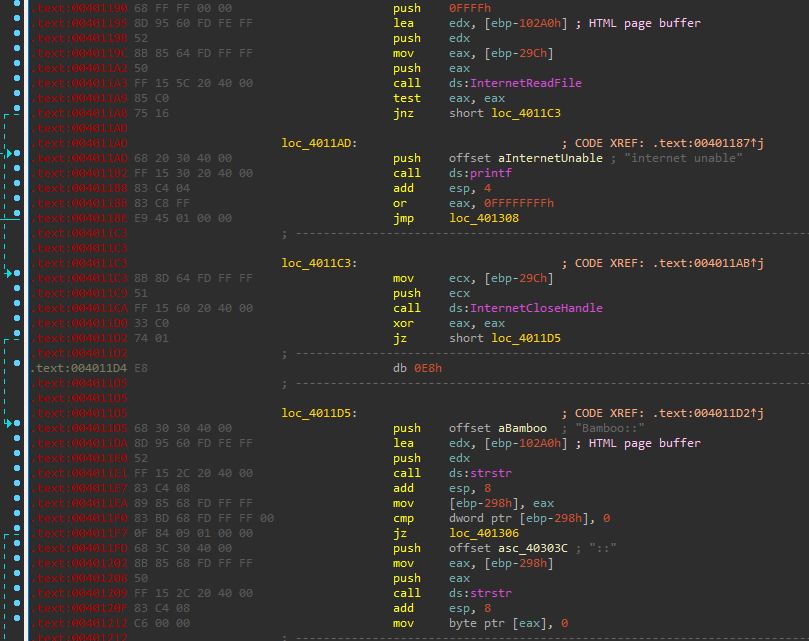
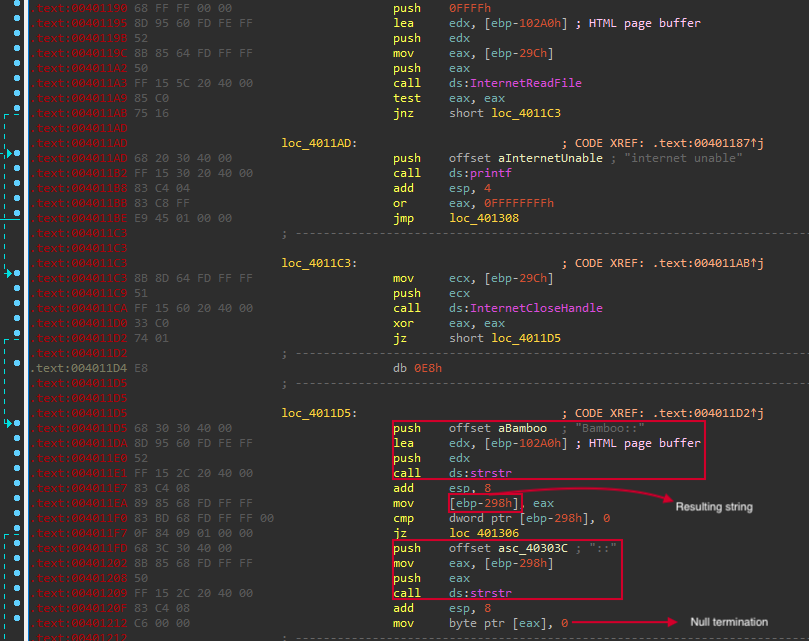
Lab15 exercises (to be completed...)

diff --git a/Labs/Lab_15.md b/Labs/Lab_15.md
@@ -162,34 +162,35 @@ The _User-Agent_ is set up by the malware when it calls to the _InternetOpenA_ _
 
 As we can see, the _User-Agent_ is introduced as argument by means of the variable _EBP-100h_, so if we look for this variable, we will find where the malware set up the _User-Agent_.
 
-If we go back in the sample, we see how at the beginning, the malware set up the _User-Agent_ by means of _gethostname_.
+If we go back in the sample, we see how at the beginning, the malware set up the variable _EBP-100h_ by means of _gethostname_.
 
 ![_IDA Pro_ _gethostname_ set _User-Agent_ variable](../Pictures/Lab_15/lab_15-02_2_ida_pro_2.png)
 
+After that, this variable is modified by incrementing each letter and number in one value, for example _0x41_ (A), will be _0x42_ (B), but if the number is equal to letters "Z", "z" or "9", it will be converted in "A", "a" and "0", respectively.
+
+![_IDA Pro_ _User-Agent_ modification](../Pictures/Lab_15/lab_15-02_2_ida_pro_3.png)
+
 **3. What does the program look for in the page it initially requests?**
 
-Once the malware has performed the _HTTP_ request, it will read the file by means of _InternetReadFile_ and then it will look for the string "Bamboo::" and then it will search for the first occurrence of "::".
+Once the malware has performed the _HTTP_ request, it will read the file by means of _InternetReadFile_ and then it will look for the string "Bamboo::". After that, it will search again but this time for the first occurrence of "::" and replacing value of the search by a null value _0x0_, indicating the end of the string. This will result in a string between the strings "Bamboo::" and ":"
 
 ![_IDA Pro_ look for "Bamboo::"](../Pictures/Lab_15/lab_15-02_3_ida_pro_1.png)
 
 **4. What does the program do with the information it extracts from the page?**
 
-After extracting the interesting information, the malware will call the function _sub_40130F_, which will get the string "Accounts.Summary.xls.exe".
+After extracting the interesting information (will call it _extracted_info_), the malware will call the function _sub_40130F_, which will get the string "Accounts.Summary.xls.exe".
 
 ![_IDA Pro_ get "Accounts.Summary.xls.exe"](../Pictures/Lab_15/lab_15-02_4_ida_pro_1.png)
 
 So we can rename this function to _get_backdoor_name_.
 
-Then, the malware will make another requests to the known _URL_ using the extracted information as header.
+Then, the malware will make another requests to _extracted_info_ as URL.
 
 ![_IDA Pro_ second _HTTP_ request](../Pictures/Lab_15/lab_15-02_4_ida_pro_2.png)
 
 Then, with the retrieved information, it will dump it into the file "Accounts.Summary.xls.exe".
 
 ![_IDA Pro_ write backdoor into disk](../Pictures/Lab_15/lab_15-02_4_ida_pro_3.png)
-
-
-TODO -> REVISAR EJERCICIOS 2 Y 4
 
 ## Lab 15-3
 
